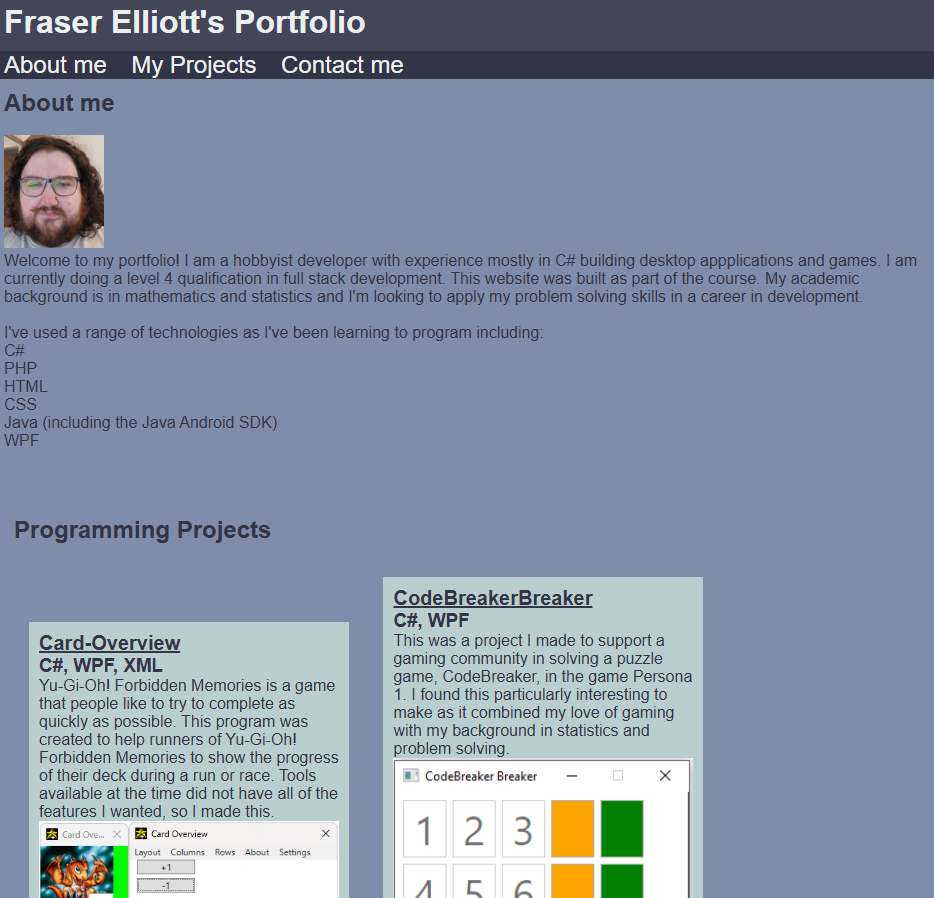
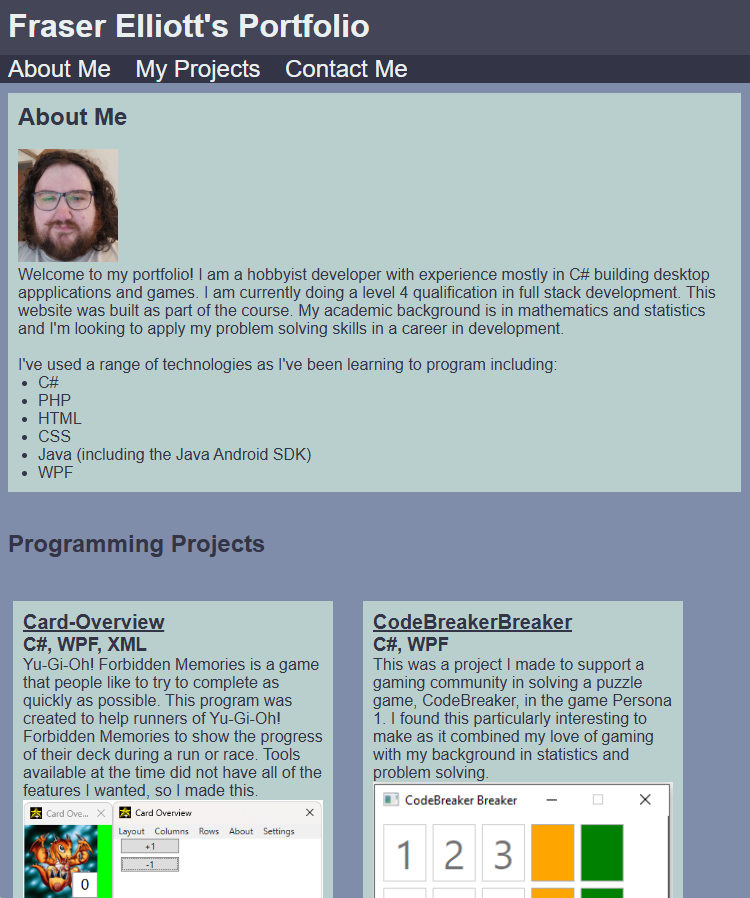
Added contact section. Updated portfolio project image. Added background colour to each section.

diff --git a/index.htm b/index.htm
@@ -12,14 +12,14 @@
     </header>
 
     <nav>
-        <a href="#about">About me</a>
+        <a href="#about">About Me</a>
         <a href="#projects">My Projects</a>
-        <a href="#contact">Contact me</a>
+        <a href="#contact">Contact Me</a>
     </nav>
     
     <section id="about">
         <div id="aboutmetext">
-            <h2>About me</h2><br>
+            <h2>About Me</h2><br>
             <img class="aboutsection" width="100" src="./assets/fraser.jpg" alt="Fraser">
             <p>
             Welcome to my portfolio! I am a hobbyist developer with experience mostly in C# building desktop appplications and games. I am currently doing a level 4 qualification in full stack development. This website was built as part of the course. My academic background is in mathematics and statistics and I'm looking to apply my problem solving skills in a career in development.<br><br>
@@ -34,16 +34,13 @@
                 <li>Java (including the Java Android SDK)</li>
                 <li>WPF</li>
             </ul>
-            <br>
         </div>
     </section>
-
-    
 
     <br>
 
     <section id="projects">
-        <h2>Programming Projects</h2><br>
+        <h2 class="sectionheader">Programming Projects</h2><br>
 
         <div class="project">
             <h2 class="projecttitle"><a target="_blank" href="https://github.com/fraserelliott/Card-Overview">Card-Overview</a></h2>
@@ -71,7 +68,26 @@
     </section>
 
     <section id="contact">
+        <h2 class="sectionheader">Contact Me</h2>
+        <form class="contactbox">
+            <label for="name">Name: </label>
+            <input type="text" id="name" required>
+            <br>
+            <label for="email">Email: </label>
+            <input type="email" id="email" required>
+            <br>
+            <label for="message">Message: </label>
+            <textarea id="message" required></textarea>
+            <br>
+            <button>Submit</button>
+        </form>
 
+        <div class="contactbox">
+            <h3>You can contact me at:<br></h3>
+            <a href="mailto:notmyrealemail@gmail.com" target="_blank">notmyrealemail@gmail.com</a><br>
+            <a href="tel:0123456789" target="_blank">0123456789</a>
+        </div>
+        
     </section>
 
     <footer>

diff --git a/style.css b/style.css
@@ -20,7 +20,7 @@ a {
 }
 
 ul {
-    list-style-type: bullets;
+    padding-left: 20px;
 }
 
 .project {
@@ -29,6 +29,10 @@ ul {
     padding: 10px;
     width: 300px;
     float: left;
+}
+
+section {
+    scroll-margin-top: 3vh;
 }
 
 .project img {
@@ -47,14 +51,39 @@ ul {
 
 #about {
     padding: 10px;
+    margin: 10px;
+    background-color: #B8CFCE;
 }
 
-#projects {
-    padding: 20px;
+.sectionheader {
+    padding: 10px;
+    clear: both;
 }
 
-#contact {
-    clear:both;
+.contactbox {
+    background-color: #B8CFCE;
+    display: inline-block;
+    padding: 10px;
+    margin: 15px;
+    width: 240px;
+    height: 240px;
+    text-align: center;
+    vertical-align: middle;
+}
+
+form label {
+    display: block;
+}
+
+form input {
+    width: 200px;
+    margin-top: 5px;
+    margin-bottom: 5px;
+}
+
+form textarea {
+    width: 200px;
+    height: 100px;
 }
 
 footer {
